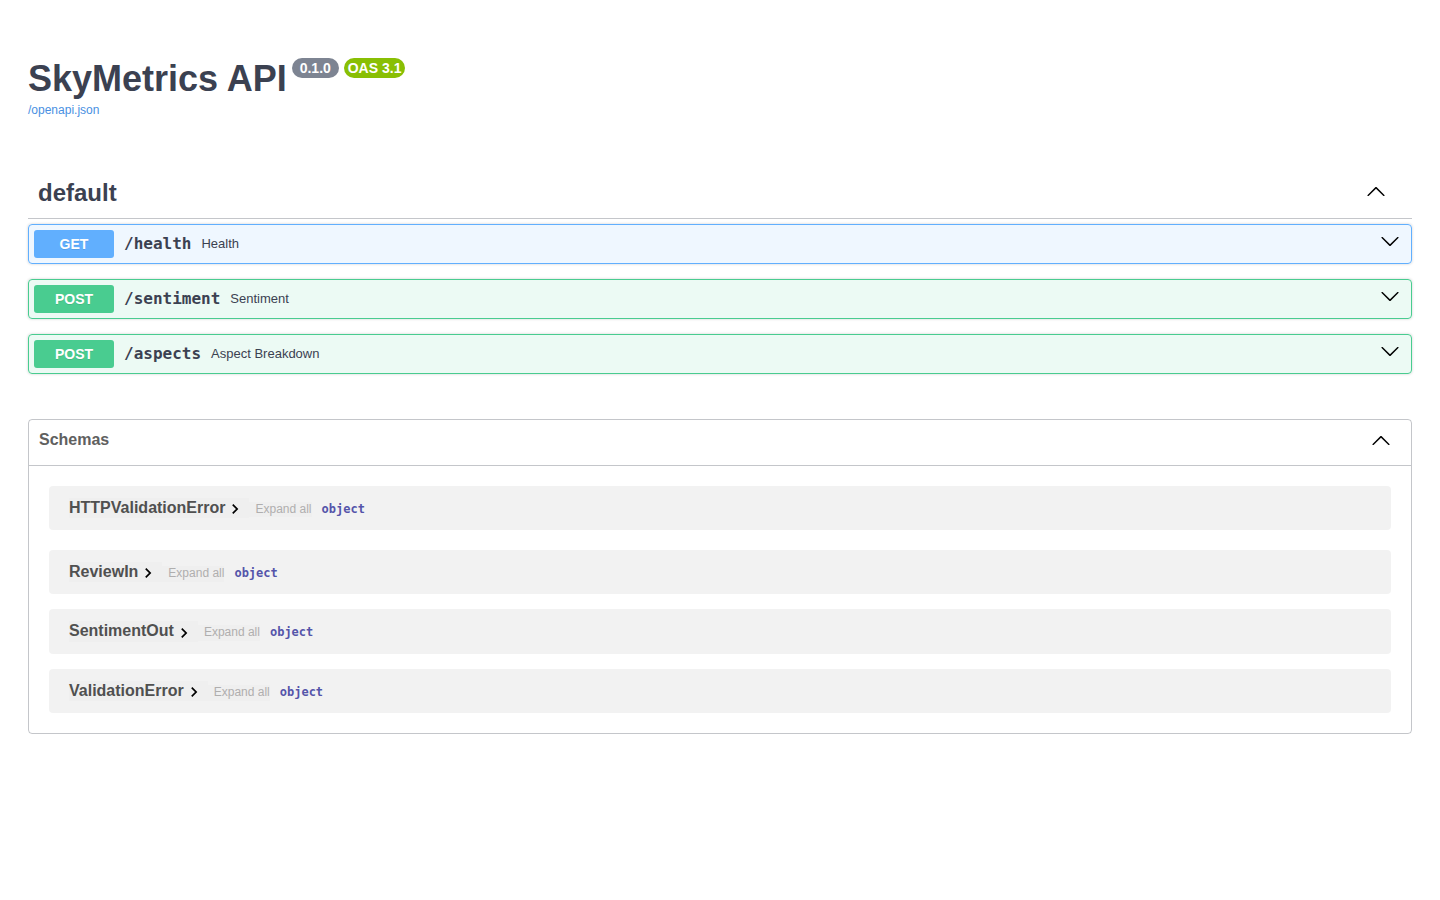
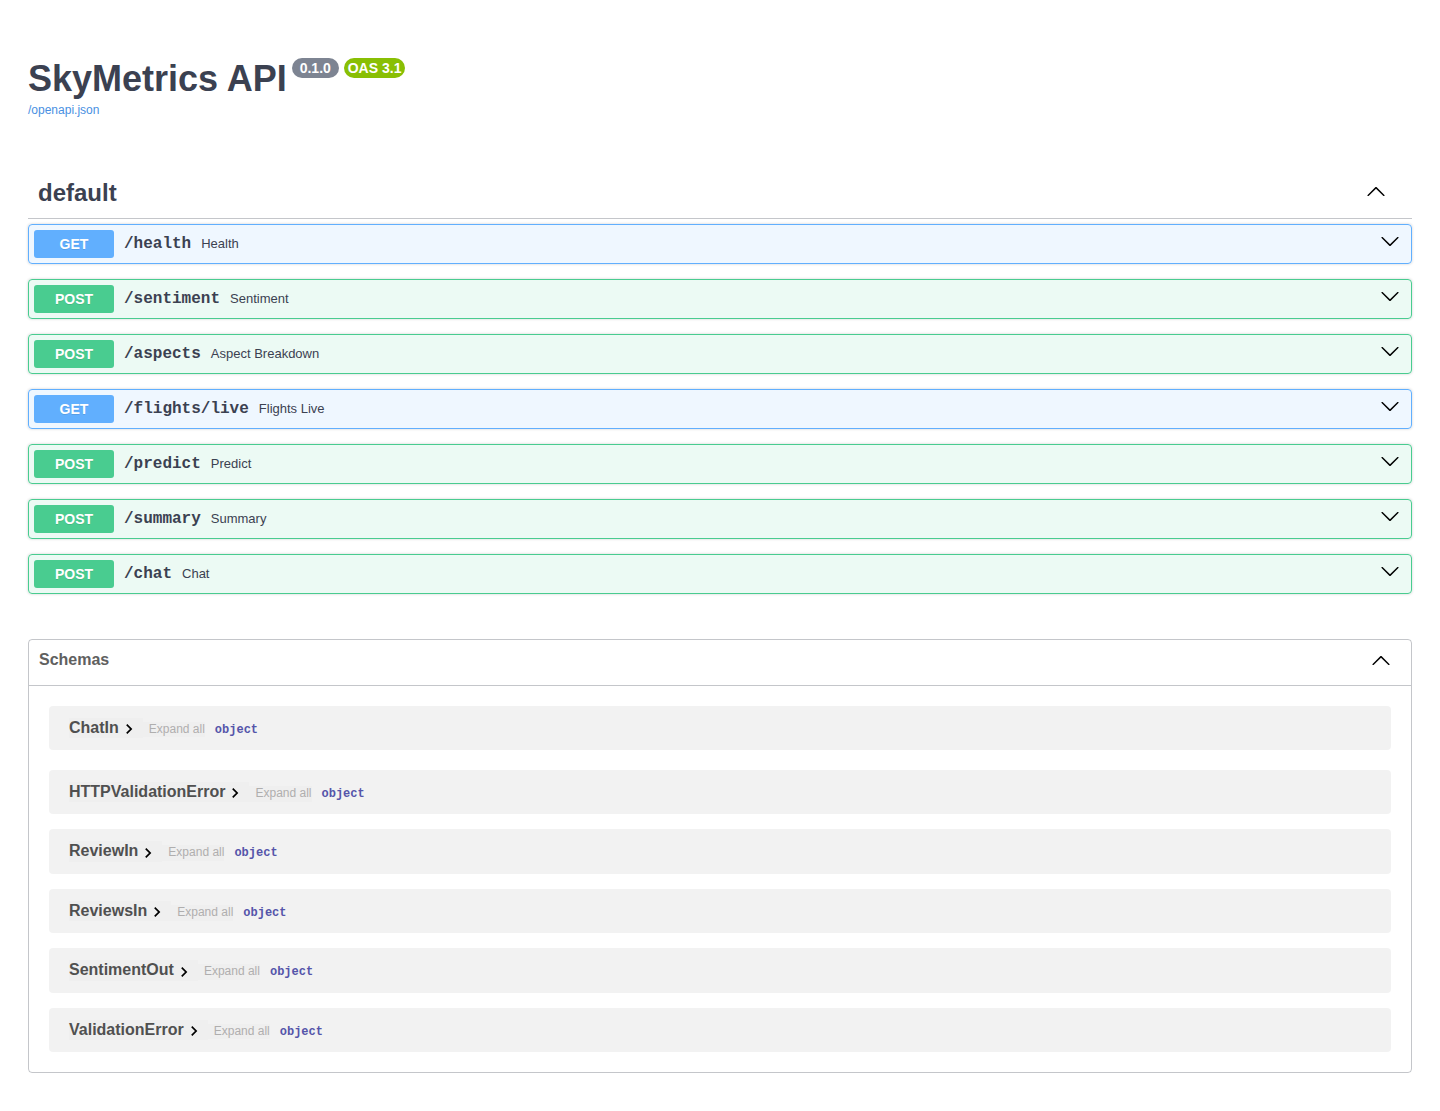
docs: document AI/serving features and refresh screenshots
Updates the README capability map and adds an endpoint table covering the new
/flights/live, /predict, /summary and /chat routes. Records Phase 2 (live
flights, model serving, LLM summariser, RAG chatbot) in the ROADMAP and adds
the llm layer and OpenRouter to the architecture diagram. Refreshes the
dashboard and API screenshots to show the expanded product.

diff --git a/README.md b/README.md
@@ -24,14 +24,31 @@ a proper package, API, dashboard, persistence layer and CI/CD pipeline.
 | Transformer sentiment (DistilBERT, lazy) | `nlp/transformer.py` |
 | Aspect-based sentiment (seat, food, staff, delay…) | `nlp/aspects.py` |
 | Topic / keyword mining (TF-IDF) | `nlp/topics.py` |
-| Booking-completion model (Random Forest) | `ml/booking.py` |
+| Booking-completion model (Random Forest) + serving | `ml/booking.py`, `ml/predict.py` |
 | Feature importance + model card | `ml/importance.py`, `ml/model_card.py` |
-| Model persistence | `ml/persistence.py` |
+| Model persistence + train script | `ml/persistence.py`, `scripts/train_model.py` |
 | Skytrax review scraper | `scrapers/skytrax.py` |
-| Live flights + IAG share price | `scrapers/external.py` |
+| Live BA flight tracking (OpenSky) + IAG share price | `scrapers/flights.py`, `scrapers/external.py` |
+| **LLM review summariser** (OpenRouter free) | `llm/summarize.py` |
+| **RAG chatbot over reviews** (TF-IDF + LLM) | `llm/rag.py` |
 | SQLite persistence | `db/` |
 | REST API | `api/app.py` |
 | Dashboard | `dashboard/app.py` |
+
+### API endpoints
+
+| Method | Path | Purpose |
+| --- | --- | --- |
+| GET | `/health` | liveness |
+| POST | `/sentiment` | baseline polarity + label |
+| POST | `/aspects` | per-aspect sentiment |
+| GET | `/flights/live` | airborne BA flights (OpenSky) |
+| POST | `/predict` | booking-completion prediction |
+| POST | `/summary` | LLM summary of reviews |
+| POST | `/chat` | grounded RAG answer over reviews |
+
+LLM endpoints (`/summary`, `/chat`) use OpenRouter free models and return `503`
+until `OPENROUTER_API_KEY` is set in `.env`.
 
 ## Architecture
 

diff --git a/ROADMAP.md b/ROADMAP.md
@@ -19,9 +19,16 @@ tested airline-customer-intelligence product.
 - [x] 1.2 CI/CD pipeline (all gates green locally) .... 90%
 - [x] 1.3 Docs, diagrams, screenshots ................. 100%
 
+## Phase 2 — AI & live serving
+
+- [x] 2.0 Live BA flight tracking + map (OpenSky)
+- [x] 2.1 Booking model served via /predict + transformer toggle
+- [x] 2.2 LLM review summariser (OpenRouter free) + /summary
+- [x] 2.3 RAG chatbot over reviews + /chat
+
 ## Test status
 
-59 unit tests passing · 91% line coverage · network fully mocked.
+81 unit tests passing · network and LLM fully mocked (no API cost in CI).
 
 ## Known issues / limitations
 
@@ -34,10 +41,10 @@ tested airline-customer-intelligence product.
 
 ## Next
 
-- [ ] `/predict` endpoint serving the persisted booking model
 - [ ] Trustpilot + Reddit scrapers (same fetch/parse pattern as Skytrax)
 - [ ] Time-series sentiment trend + volume forecasting
 - [ ] Scheduled ETL populating the SQLite store
+- [ ] WebSocket live flight stream to the map
 
 ## ✍️ TODO: my words
 

diff --git a/docs/architecture.md b/docs/architecture.md
@@ -20,8 +20,11 @@ flowchart TB
 
     subgraph Core["Processing"]
         NLP["nlp/\nsentiment · aspects · topics · transformer"]
-        ML["ml/\nbooking · importance · model_card · persistence"]
+        ML["ml/\nbooking · predict · importance · model_card · persistence"]
+        LLM["llm/\nsummarize · rag (TF-IDF retrieval)"]
     end
+
+    OR["OpenRouter\n(free models)"]
 
     DB[("db/\nSQLite: reviews · bookings · metrics")]
 
@@ -39,6 +42,11 @@ flowchart TB
     NLP --> API
     NLP --> DASH
     ML --> API
+    DB --> LLM
+    LLM --> OR
+    LLM --> API
+    LLM --> DASH
+    OS --> API
     DB --> DASH
 ```
 